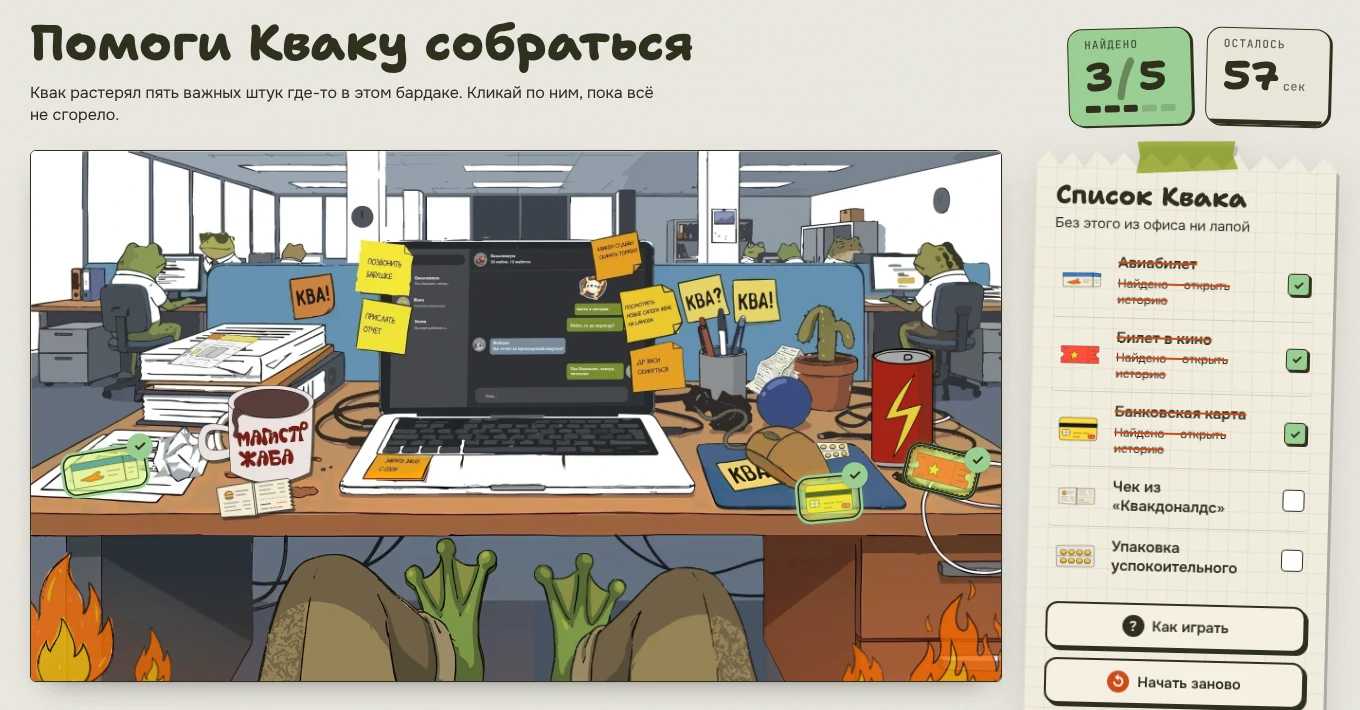
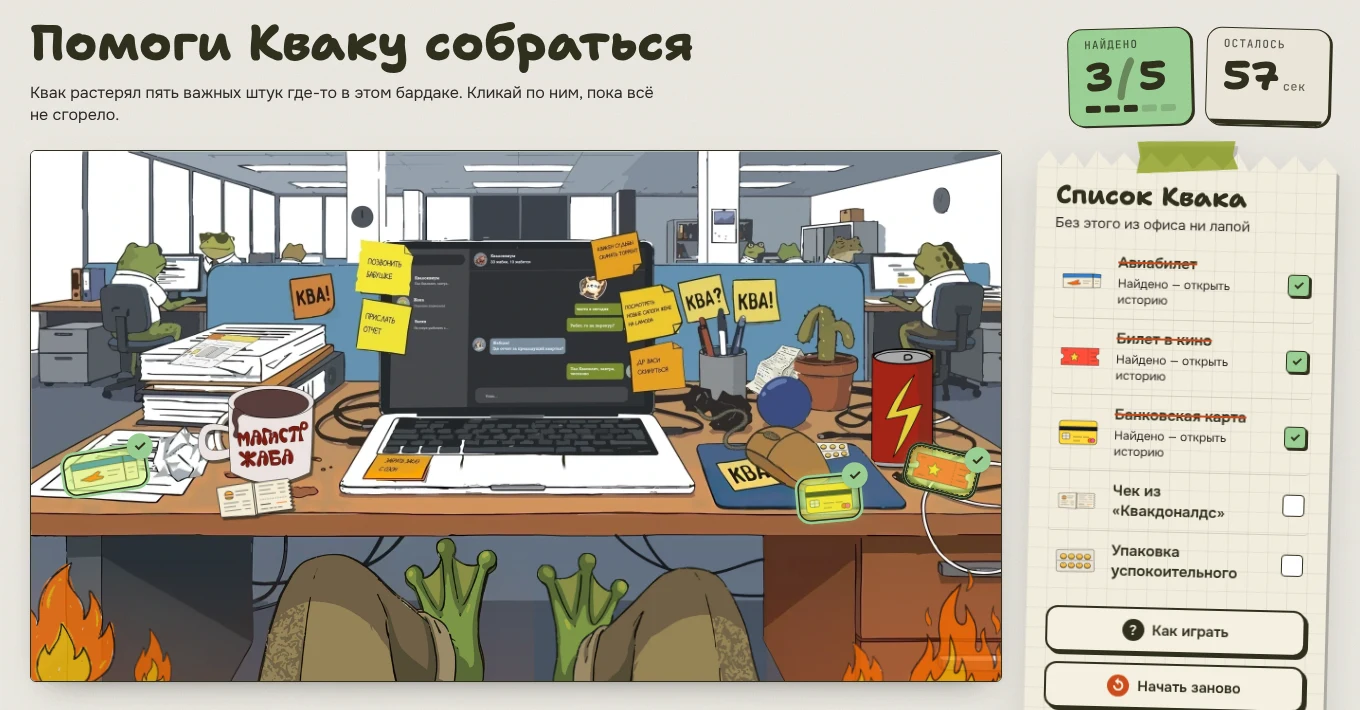
fix: kvak strike-through

diff --git a/play/kvak/css/style.css b/play/kvak/css/style.css
@@ -365,7 +365,7 @@ h1,h2,h3{font-family:var(--font-display);font-weight:700;letter-spacing:-.01em;l
 .item-btn:focus-visible{outline:2.5px solid var(--ink);outline-offset:2px}
 .item.is-found:hover{background:var(--paper-2)}
 .item-reopen{display:none;font:500 12px var(--font-body);color:var(--muted);margin-top:2px;text-decoration:none}
-.item.is-found .item-reopen{display:block}
+.item.is-found .item-reopen{display:inline-block;width:100%}  /* inline-block не наследует зачёркивание родителя */
 .side-foot{margin-top:12px;text-align:center}
 .restart-confirm{margin-top:8px;background:var(--paper-2);border-radius:4px;padding:12px;text-align:left}
 .restart-confirm p{margin:0 0 8px;font-weight:600;font-size:14px}
